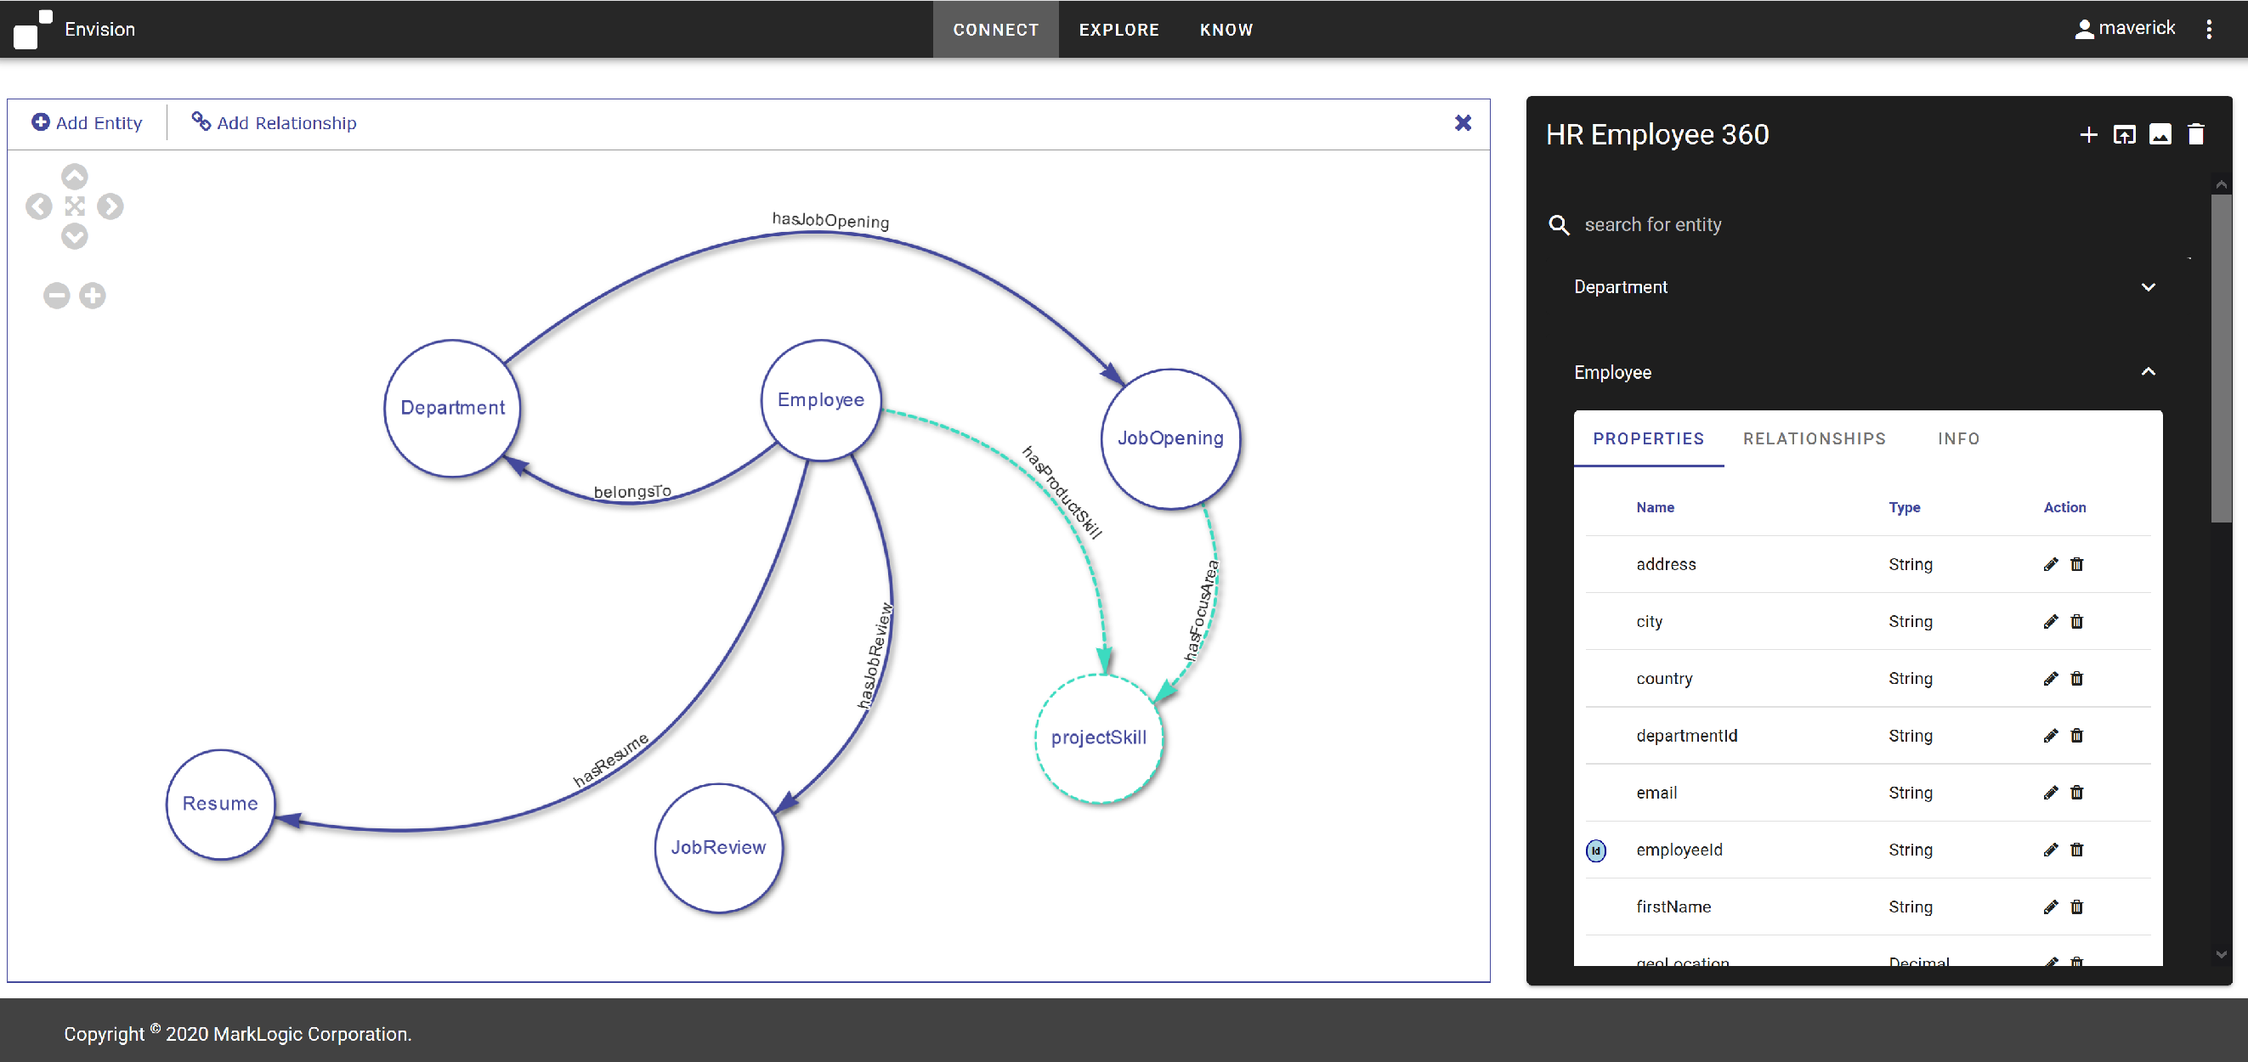
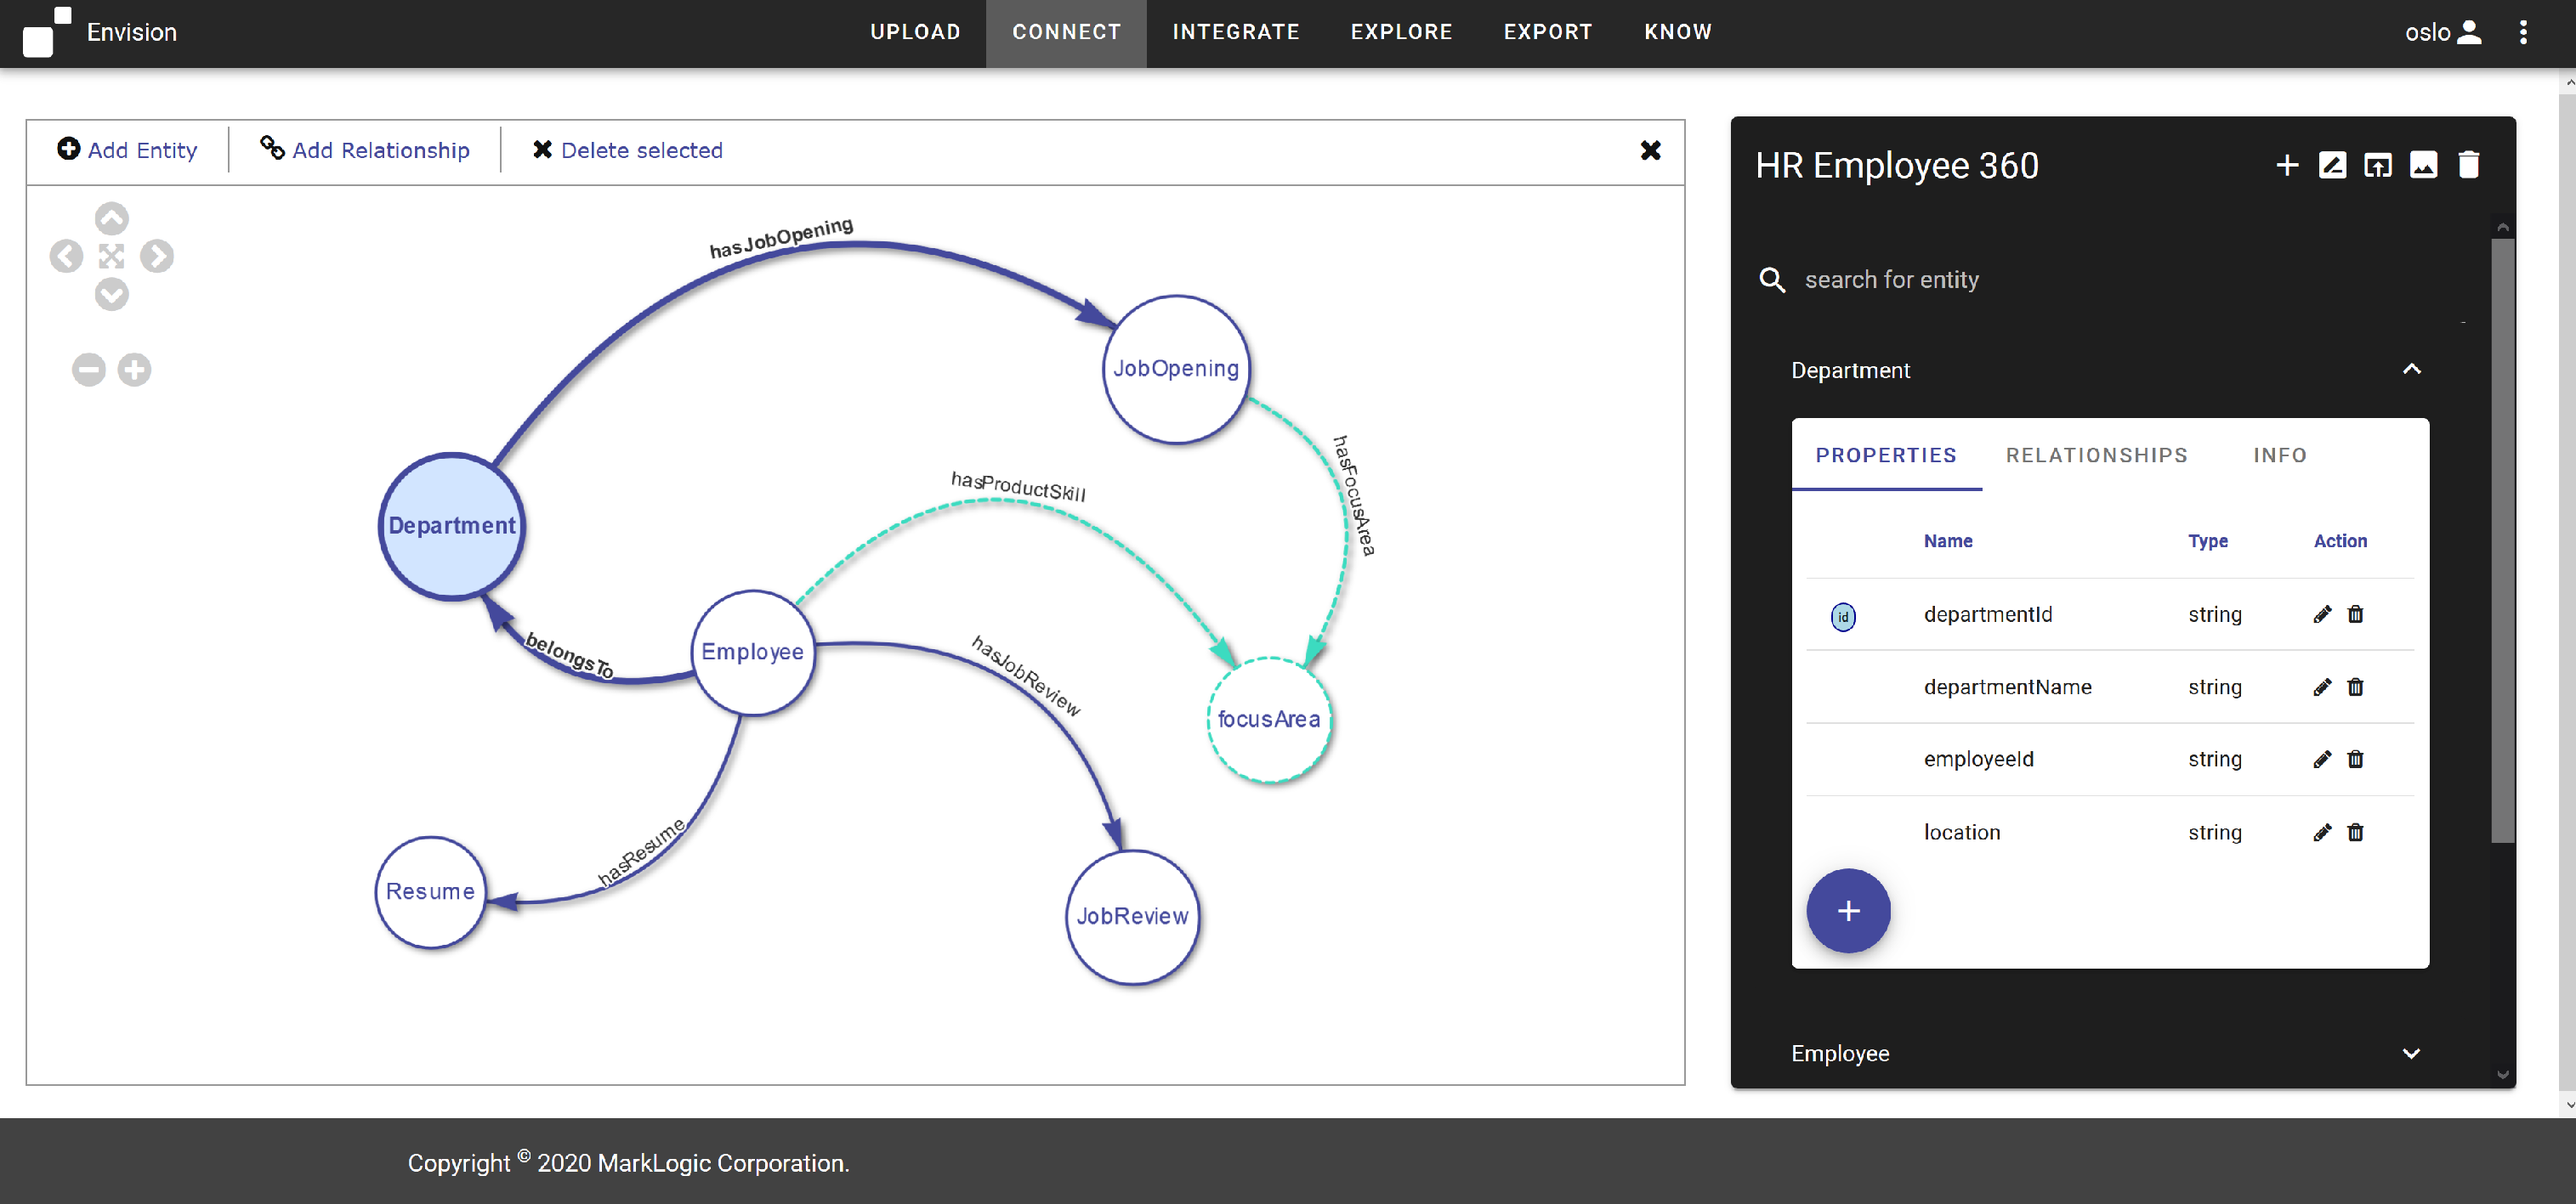
v2.0.1 docs

diff --git a/_pages/components/integrate/integrate.md b/_pages/components/integrate/integrate.md
@@ -1,0 +1,52 @@
+---
+layout: inner
+title: Integrate
+lead_text: ''
+permalink: /components/integrate/
+---
+
+# Integrate
+
+Create flows, define mapping and mastering steps and run them to integrate data in the MarkLogic Data Hub.
+
+### Getting Started
+A flow is just a collection of steps. Steps are what you configure to integrate data in the data hub.  Steps can be of type ingest, mapping, matching, merging, and custom.
+
+Envision allows you to create mapping, matching, and merging steps. However, you can run Envision against an existing hub and you'll have your existing flows and steps available for use. You will find that all step types are respected and usable by Envision. See "Additional Step Info" below for more details on ingest and custom step types.
+
+<br> 
+![Integrate](/envision/images/IntegrateGH.png)
+<br><br>
+
+* Flows are detailed on the left pane.  
+	* Click the '+' icon to add a new flow.
+	* Click a flow name to display the flow in the center pane.
+* The selected flow and its steps are illlustrated in the center.
+	* Click "Add Step" to add a step to the flow.
+	* Click "Run Steps" to run the steps in your flow.
+	* Click the trashcan icon next to the flow name to delete the flow and all its steps from the hub.
+	* Click a step to see its detail displayed below the flow.
+* The details of which entities are available for use (based on the model selectin in Connect) and how many have already been harmonized is detailed on the right. 
+	* Click the trashcan icon to the right of an entity count in the "Manage My Data" pane to delete those entities from the final database in the data hub.
+
+#### Mapping Steps
+When using Upload to load data, the name of the file will be the name of the collection the data is saved to in Staging.  When using ingest steps, typically the name of the ingest step is used. This collection name can be used for the Data Source field when creating mapping steps.
+
+#### Mastering Steps
+Mapped data will be saved in a collection named for the entity it is mapped to. This collection name should be used for the Data Source when creating Matching or Merging steps.
+
+#### Additional Icons
+Collapsing the "Manage My Data" pane to increase the size of the workspace of mapping step configurations can be very helpful. The following icons help to maximize the workspace in the center and to provide additional useful information.
+
+* Click the 2-way arrow icon in the upper left of the center pane to minimize the "Flows" pane.
+* Click the database icon in the upper right of the center pane to minimize the "Manage My Data" pane.
+* Click the counter-clockwise arrow next to the database icon in the upper right to display the Jobs information for the selected flow.
+	* If you run a flow and get an error. You can inspect the Jobs information for error messages.
+
+#### Additional Step Info
+Ingest steps aren't really needed if you think about it. Data can be loaded outside of Envision into the hub as well and still processed in mapping and mastering steps by Envision.  All a mapping step requires to map a source file to the target is a collection name or a query, not a previous ingestion step. Using Upload, we already know what the file is and where it came from, so no additional ingest step required.
+
+The path of data for existing ingest steps is editable. For other ingest step configurations, attend to the corresponding .json config file in the data hub project.
+
+For custom steps, the path is displayed.  To edit the custom module, attend to the .json file on the file system associated with the displayed path.
+

diff --git a/_pages/components/admin/admin.md b/_pages/components/admin/admin.md
@@ -11,12 +11,6 @@ Envision is platform neutral and can be used with on-prem and cloud deployed Dat
 
 Envision (1.0.5 and greater) requires **[Data Hub Framework 5.2.3 (DHF)](https://developer.marklogic.com/products/data-hub/)**  to be used with the current **[MarkLogic Data Hub Service on Azure (DHS)](https://docs.marklogic.com/cloudservices/azure/getting-started-azure.html)**.
 
-Select "Admin" from the dropdown menu available by clicking on the 3 vertical dots found in the upper right corner of Envision.  This will take you to the Admin page where you can view the details of the hub you're currently running Envision with.
-
-![Data Hub](/envision/images/Admin-1.png) 
-
-Data Hub Flows can be run by clicking the "Run Flows" button.  
-
 To use Envision with DHS, start by downloading the gradle config file for your DHS instance. After downloading, remember to update the username and password with your DHS credentials. <br><br>
 
 ![DHS](/envision/images/DHS-1.png)

diff --git a/_pages/components/explore/explore.md b/_pages/components/explore/explore.md
@@ -11,12 +11,15 @@ An Entity Explorer for visualizing the results of data harmonized using the mode
 
 ### Getting Started
 
-Exploring is pretty self-explanatory.  
-
 Search on entities by entering a term or phrase in the search field.  
 
-You can expand relationships for an entity by right clicking on the entity or by selecting the entity and viewing it's Relationship pane. The Info pane of a selected entity will display the provenance associated with that entity.
-<br><br> 
+You can expand relationships for an entity by right clicking on the entity or by selecting the entity and viewing it's Relationship pane. The Info pane of a selected entity will display the provenance associated with that entity.  You can also take advantage of faceted navigation and toggle between graph and grid views.
+
+<br> 
 ![Explore](/envision/images/ExploreGH.png)
-<br><br>
+<br>
+
+<br> 
+![Explore](/envision/images/ExploreGH-2.png)
+<br>
 

diff --git a/_pages/components/upload/upload.md b/_pages/components/upload/upload.md
@@ -1,0 +1,22 @@
+---
+layout: inner
+title: Upload
+lead_text: ''
+permalink: /components/upload/
+---
+
+# Upload
+
+Start by loading data into the MarkLogic Data Hub.  Upload currently supports csv files.
+
+### Getting Started
+Loading data is pretty self explanatory. Drag and drop a csv file onto the page or click "Choose a File" to choose the file from your file system.
+
+Once loaded, the name of the file and how many rows have loaded will be displayed at the bottom of the page.  You can click the trashcan icon to delete these records and file from the Data Hub Staging database.
+
+If you're using existing flows with existing integrate steps to ingest data, you don't need to upload the data here.  Once the ingest steps have run, filenames will be displayed here as well.
+
+<br><br> 
+![Upload](/envision/images/upload-1.png)
+<br><br>
+

diff --git a/_pages/components/export/export.md b/_pages/components/export/export.md
@@ -1,0 +1,18 @@
+---
+layout: inner
+title: Upload
+lead_text: ''
+permalink: /components/export/
+---
+
+# Export
+
+Export your harmonized entity data as .csv files.
+
+### Getting Started
+
+Select the entity or entities you wish to download and click the "EXPORT" button.  Once ready for download,  a zip file will be made available for you to save of your selected data. Click the cloud icon in the Exports section to download your data.
+
+<br> 
+![Explore](/envision/images/ExportGH.png)
+<br>

diff --git a/_pages/components/connectindex.md b/_pages/components/connectindex.md
@@ -7,7 +7,11 @@ permalink: /components/
 # Component Guides
 Guides for each of the Envision components follow.  Use of the apps themselves is relatively straightforward.  The finer details for more complex configurations and rule setting can be found within these guides.
 
-1. Connect
-2. Explore
-3. Know
-4. Notification Inbox and Mastering Validation
+1. Upload
+2. Connect
+3. Integrate
+4. Explore
+	* With Notification Inbox and Mastering Validation
+5. Export
+6. Know
+

diff --git a/_pages/components/notifications/notifications.md b/_pages/components/notifications/notifications.md
@@ -7,6 +7,8 @@ permalink: /components/notifications/
 
 # Notification Inbox and Mastering Validation
 
+This capability enables Human In The Loop (HITL) validation of entity deduplication and mastering through a notification inbox. 
+
 1. Notification Inbox 
 	* An inbox alerting users which records have been identified as similar by Smart Mastering.
 2. Mastering Validation
